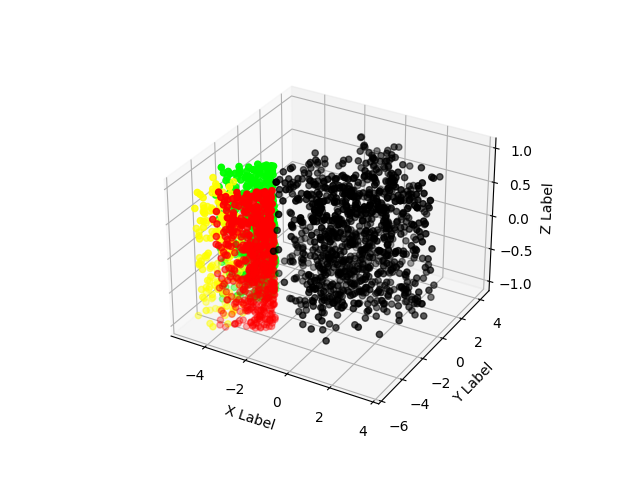
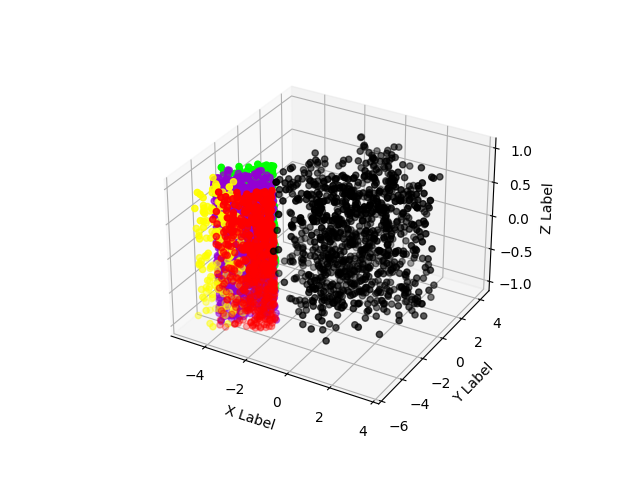
hnh

Changed region(s): [[0.3125, 0.4062, 0.4375, 0.6875], [0.3125, 0.3438, 0.4375, 0.4375], [0.7812, 0.5, 0.8438, 0.5312]]

diff --git a/3d_dich.py b/3d_dich.py
@@ -12,11 +12,13 @@ ax = fig.add_subplot(projection='3d')
 n = 0
 k = 0
 a = 0
+b = 0
 N = 1000
 xs, ys, zs = [], [], []
 x1, y1, z1 = [], [], []
 x2, y2, z2 = [], [], []
 x3, y3, z3 = [], [], []
+x4, y4, z4 = [], [], []
 
 phi = np.linspace(0, 2*np.pi, N)
 theta = np.linspace(0, 2*np.pi, N//5)
@@ -63,11 +65,21 @@ for m, zlow, zhigh in [(',', -1, 1)]:
             k += 1
         else:
             k += 1
+    
+    x4s = randrange(N, 0, 2.5)
+    y4s = randrange(N, 0, 2)
+    z4s = randrange(N, zlow, zhigh)
+    for i in x4s:
+        x4.append((x4s[b]**2+y4s[b]**2)**0.5*np.cos(0.56+np.arctan(y4s[b]/x4s[b]))-4.05)
+        y4.append((x4s[b]**2+y4s[b]**2)**0.5*np.sin(0.56+np.arctan(y4s[b]/x4s[b]))-4.9)
+        z4.append(z4s[b])
+        b += 1
 
     ax.scatter(xs, ys, zs, color='black')
     ax.scatter(x1, y1, z1, color='yellow')
     ax.scatter(x2, y2, z2, color='lime')
     ax.scatter(x3, y3, z3, color='red')
+    ax.scatter(x4, y4, z4, color='darkviolet')
 
 ax.set_xlabel('X Label')
 ax.set_ylabel('Y Label')

diff --git a/tester.py b/tester.py
@@ -12,11 +12,13 @@ ax = fig.add_subplot(projection='3d')
 n = 0
 k = 0
 a = 0
+b = 0
 N = 1000
 xs, ys, zs = [], [], []
 x1, y1, z1 = [], [], []
 x2, y2, z2 = [], [], []
 x3, y3, z3 = [], [], []
+x4, y4, z4 = [], [], []
 
 phi = np.linspace(0, 2*np.pi, N)
 theta = np.linspace(0, 2*np.pi, N//5)
@@ -63,11 +65,21 @@ for m, zlow, zhigh in [(',', -1, 1)]:
             k += 1
         else:
             k += 1
+    
+    x4s = randrange(N, 0, 2.5)
+    y4s = randrange(N, 0, 2)
+    z4s = randrange(N, zlow, zhigh)
+    for i in x4s:
+        x4.append((x4s[b]**2+y4s[b]**2)**0.5*np.cos(0.56+np.arctan(y4s[b]/x4s[b]))-4.05)
+        y4.append((x4s[b]**2+y4s[b]**2)**0.5*np.sin(0.56+np.arctan(y4s[b]/x4s[b]))-4.9)
+        z4.append(z4s[b])
+        b += 1
 
     ax.scatter(xs, ys, zs, color='black')
     ax.scatter(x1, y1, z1, color='yellow')
     ax.scatter(x2, y2, z2, color='lime')
     ax.scatter(x3, y3, z3, color='red')
+    ax.scatter(x4, y4, z4, color='darkviolet')
 
 ax.set_xlabel('X Label')
 ax.set_ylabel('Y Label')
